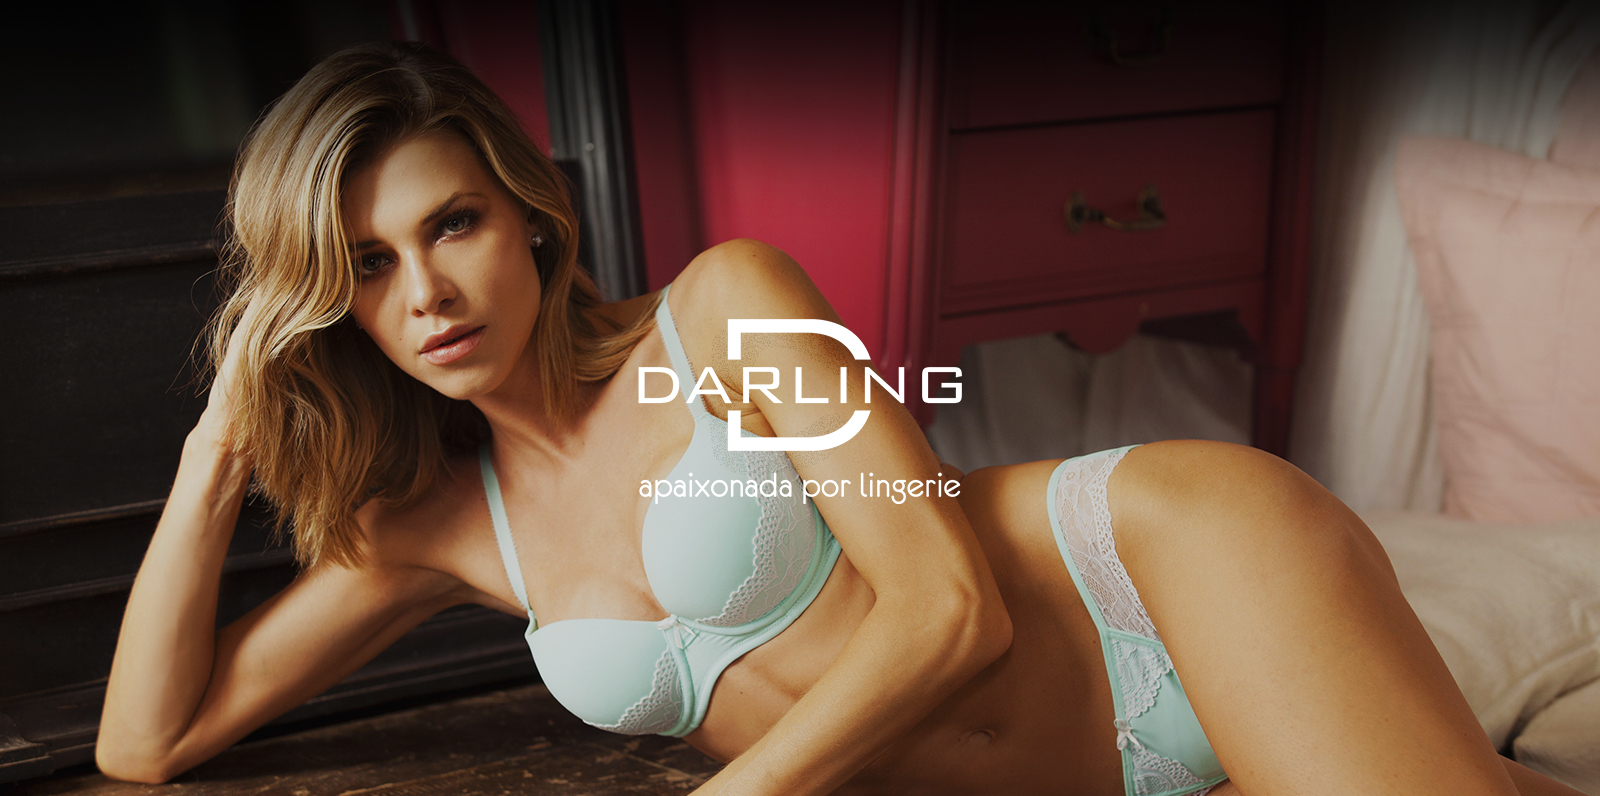
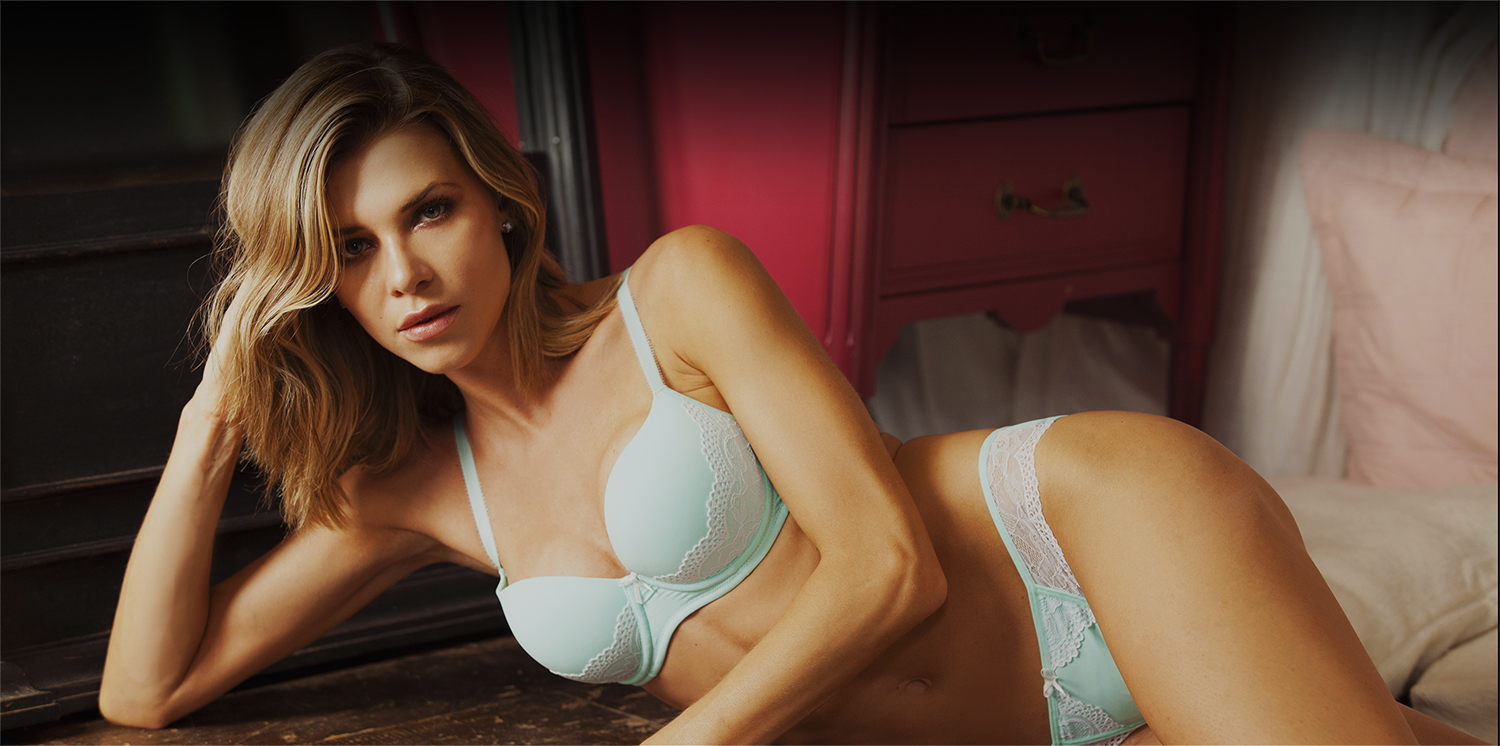
final v1

diff --git a/site/statics/css/cases.css b/site/statics/css/cases.css
@@ -55,6 +55,22 @@ div.row {
   font-size: 30px;
 }
 
+.logo-cover {
+  vertical-align: middle;
+  margin: 0 auto;
+  display: block;
+  position: absolute;
+  text-align: center;
+  top: 25%;
+}
+
+.logo-cover img {
+  display: inline-block;
+  width: 250px;
+  height: auto;
+  margin: 0 auto;
+}
+
 .casemail {
     display: block;
     position: absolute;
@@ -155,6 +171,11 @@ section.resume p {
   width: 65% !important;
 }
 
+#ww .logo-cover img {
+  width: 400px;
+  margin: 135px 35px 0 0;
+}
+
 /* DARLING */
 
 .cent-img {
@@ -172,6 +193,11 @@ section.resume p {
   margin: 0 auto !important
 }
 
+#darling .logo-cover img {
+    width: 400px;
+    margin: 130px 20px 0 0;
+}
+
 /* TRIYA */
 
 #triya-even-line {
@@ -186,10 +212,20 @@ section.resume p {
   width: 65%;
 }
 
+#triya .logo-cover img {
+    width: 500px;
+    margin: 135px 76px auto auto;
+}
+
 /* DARLING */
 
 #viggo p {
   width: 65% !important;
+}
+
+#viggo .logo-cover img {
+    width: 400px;
+    margin: 135px 76px auto auto;
 }
 
 /* SIDE */
@@ -245,6 +281,9 @@ section.resume p {
     margin-top: -50px !important;
   }
 
+  .logo-cover{
+    display: none
+  }
 
   #darling .cover{background-image: url('../img/Case_darling/bannermob.png');}
   #side .cover{background-image: url('../img/case_side/bannermob.png');}
@@ -254,7 +293,7 @@ section.resume p {
 
 
 
-  /* CONFIGURAÃƒÆ’Ã¢â‚¬Â¡ÃƒÆ’Ã¢â‚¬Â¢ES ESPECÃƒÆ’Ã‚ÂFICAS */
+  /* CONFIG ESPECIFIC */
   /* WW */
   .mid-icon img {
     width: 50%
@@ -263,6 +302,7 @@ section.resume p {
     width: 90vw !important;
     margin: 50px auto 35px !important;
   }
+
   /* TRIYA */
   #triya-even-line {
     display: none;
@@ -277,6 +317,7 @@ section.resume p {
   #triya .resume p {
     margin: 40px auto !important;
   }
+
   /* DARLING */
   .cent-img {
     width: 70% !important;

diff --git a/site/views/ww.html b/site/views/ww.html
@@ -29,6 +29,9 @@
   </header>
 
   <section class="cover">
+    <div class="col-12 logo-cover">
+      <img src="../statics/img/case_worldwine/logo-cover.png" alt="">
+    </div>
     <div class="casemail">
       <a href="http://www.worldwine.com.br/" target="_blank"><h5>www.worldwine.com.br</h5></a>
       <div class="down-seta">

diff --git a/site/views/viggo.html b/site/views/viggo.html
@@ -29,6 +29,9 @@
   </header>
 
   <section class="cover">
+    <div class="col-12 logo-cover">
+      <img src="../statics/img/case_viggo/logo-cover.png" alt="">
+    </div>
     <div class="casemail">
       <a href="https://www.lojasviggo.com.br/" target="_blank"><h5>www.lojasviggo.com.br</h5></a>
       <div class="down-seta">

diff --git a/site/views/side.html b/site/views/side.html
@@ -30,6 +30,9 @@
   </header>
 
   <section class="cover">
+    <div class="col-12 logo-cover">
+      <img src="../statics/img/case_side/logo-cover.png" alt="">
+    </div>
     <div class="casemail">
       <a href="https://www.sidewalk.com.br/" target="_blank"><h5>www.sidewalk.com.br</h5></a>
       <div class="down-seta">

diff --git a/site/views/darling.html b/site/views/darling.html
@@ -29,6 +29,9 @@
   </header>
 
   <section class="cover">
+    <div class="col-12 logo-cover">
+      <img src="../statics/img/Case_darling/logo-cover.png" alt="">
+    </div>
     <div class="casemail">
       <a href="http://www.darling.com.br" target="_blank"><h5>www.darling.com.br</h5></a>
       <div class="down-seta">

diff --git a/site/views/triya.html b/site/views/triya.html
@@ -29,6 +29,9 @@
   </header>
 
   <section class="cover">
+    <div class="col-12 logo-cover">
+      <img src="../statics/img/case_triya/logo-cover.png" alt="">
+    </div>
     <div class="casemail">
       <a href="https://www.triya.com.br/" target="_blank"><h5>www.triya.com.br</h5></a>
       <div class="down-seta">
